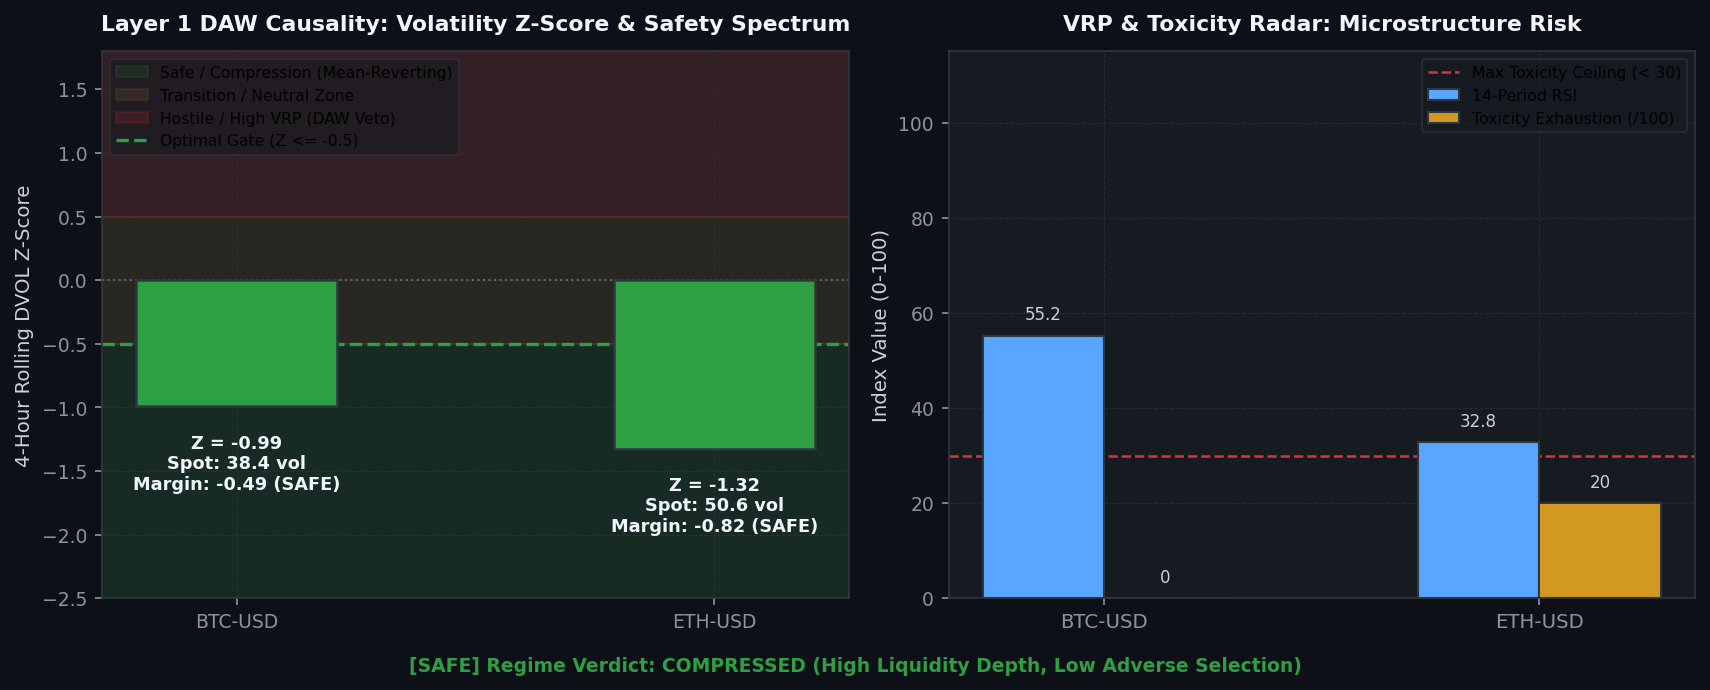
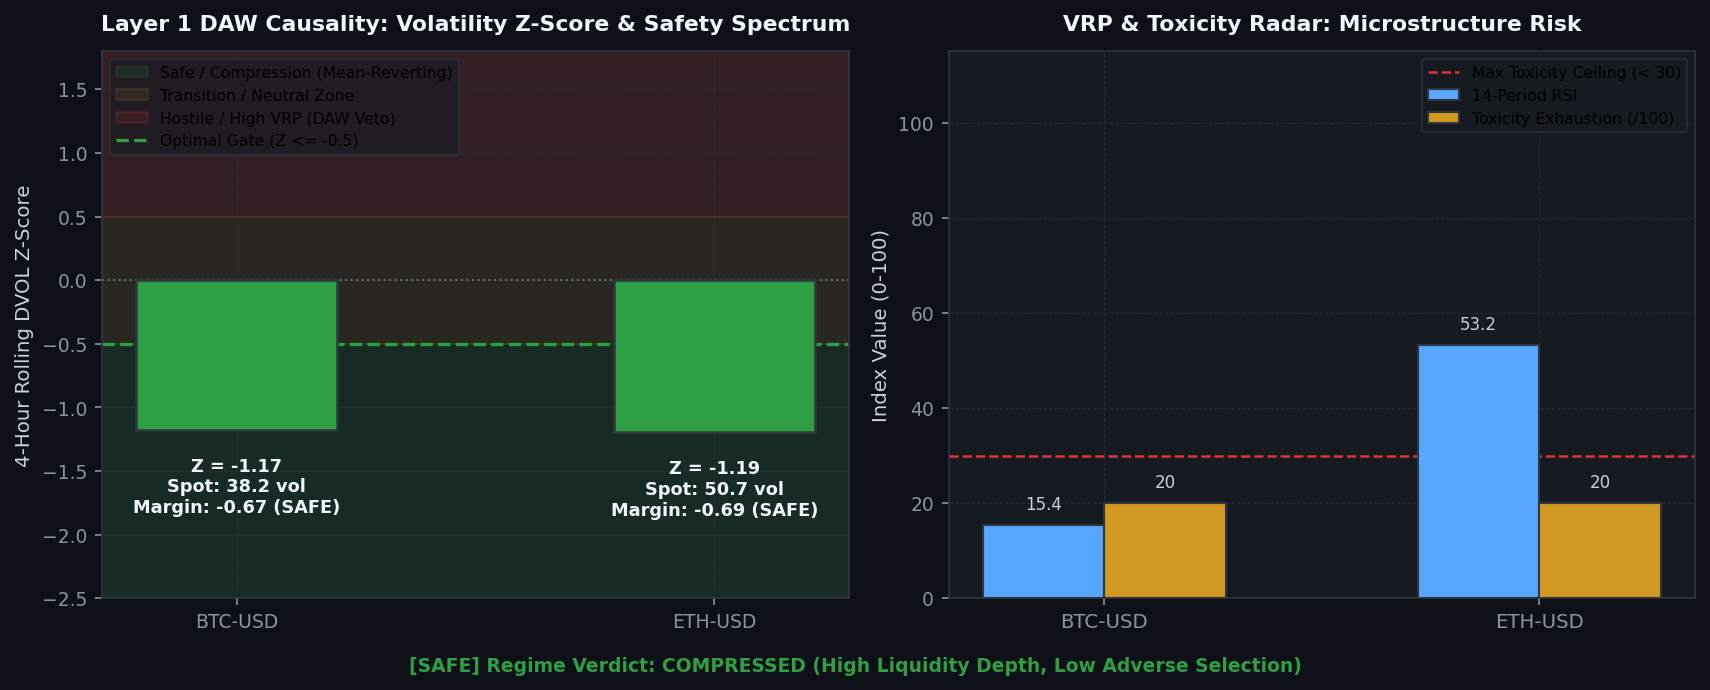
[coinbase] Hourly Status & Visual Intelligence Update: 2026-08-28 19:23:10

diff --git a/coinbase/data/hourly_status_report.md b/coinbase/data/hourly_status_report.md
@@ -3,7 +3,7 @@ layout: default
 ---
 
 # 🛡 Unified Trading System Hourly Status & Visual Intelligence
-> **Report Generated**: `2026-08-28 07:03:56 PM PDT (2026-08-29 02:03:56 UTC)`  
+> **Report Generated**: `2026-08-28 07:22:52 PM PDT (2026-08-29 02:22:52 UTC)`  
 > **System Health**: **🟡 DEGRADED / RESTRICTED** | **Win Rate**: `0.0%` | **Completed Trades**: `0`
 
 
@@ -15,13 +15,13 @@ Real-time Deribit implied volatility (DVOL) proxy tracking against mathematicall
 
 | Symbol | Proxy Oracle | Live Z-Score | Optimal Limit (YSP) | Safety Margin | Live VRP | Optimal VRP (YSP) | DAW Safety Verdict |
 | :--- | :--- | :--- | :--- | :--- | :--- | :--- | :--- |
-| `AVAX-USD` | DVOL_BTC | **-0.99** | **-0.50** | **-0.49** | **+1.28** | 5.0 | 🟢 SAFE |
-| `ETH-USD` | DVOL_ETH | **-1.32** | **-0.50** | **-0.82** | **+12.80** | 5.0 | 🔴 DAW VETOED |
-| `ADA-USD` | DVOL_BTC | **-0.99** | **-0.50** | **-0.49** | **+0.24** | 5.0 | 🟢 SAFE |
-| `DOGE-USD` | DVOL_BTC | **-0.99** | **-0.50** | **-0.49** | **+1.22** | 5.0 | 🟢 SAFE |
-| `BTC-USD` | DVOL_BTC | **-0.99** | **-0.50** | **-0.49** | **+1.12** | 5.0 | 🟢 SAFE |
-| `LINK-USD` | DVOL_BTC | **-0.99** | **-0.50** | **-0.49** | **+0.27** | 5.0 | 🟢 SAFE |
-| `SOL-USD` | DVOL_BTC | **-0.99** | **-0.50** | **-0.49** | **+0.22** | 5.0 | 🟢 SAFE |
+| `AVAX-USD` | DVOL_BTC | **-1.17** | **-0.50** | **-0.67** | **+1.28** | 5.0 | 🟢 SAFE |
+| `ETH-USD` | DVOL_ETH | **-1.19** | **-0.50** | **-0.69** | **+12.80** | 5.0 | 🔴 DAW VETOED |
+| `ADA-USD` | DVOL_BTC | **-1.17** | **-0.50** | **-0.67** | **+0.24** | 5.0 | 🟢 SAFE |
+| `DOGE-USD` | DVOL_BTC | **-1.17** | **-0.50** | **-0.67** | **+1.22** | 5.0 | 🟢 SAFE |
+| `BTC-USD` | DVOL_BTC | **-1.17** | **-0.50** | **-0.67** | **+1.12** | 5.0 | 🟢 SAFE |
+| `LINK-USD` | DVOL_BTC | **-1.17** | **-0.50** | **-0.67** | **+0.27** | 5.0 | 🟢 SAFE |
+| `SOL-USD` | DVOL_BTC | **-1.17** | **-0.50** | **-0.67** | **+0.22** | 5.0 | 🟢 SAFE |
 
 
 
@@ -37,16 +37,16 @@ We hereby certify that the mission-critical algorithmic data assets uploaded by 
 
 | Status | Data Asset | Freshness / State | Details / Timestamp |
 | :---: | :--- | :--- | :--- |
-| ✅ | **Go-List JSON** | Fresh (0.71h old) | 08-28 18:21 |
-| ✅ | **TimesFM Forecasts** | Fresh (3.03h old) | 08-28 16:02 |
-| ❌ | **Holding Times config** | STALE! (178.0h old) | Limit 120.1h |
-| ✅ | **BTC DVOL Cache** | Fresh (0.01h old) | 08-28 19:03 |
-| ✅ | **ETH DVOL Cache** | Fresh (0.00h old) | 08-28 19:03 |
-| ❌ | **Live Trading Telemetry** | STALE! (5.2h old) | Limit 0.1h |
+| ✅ | **Go-List JSON** | Fresh (1.03h old) | 08-28 18:21 |
+| ✅ | **TimesFM Forecasts** | Fresh (3.35h old) | 08-28 16:02 |
+| ❌ | **Holding Times config** | STALE! (178.3h old) | Limit 120.4h |
+| ✅ | **BTC DVOL Cache** | Fresh (0.00h old) | 08-28 19:22 |
+| ✅ | **ETH DVOL Cache** | Fresh (0.00h old) | 08-28 19:22 |
+| ❌ | **Live Trading Telemetry** | STALE! (5.5h old) | Limit 0.1h |
 
 <br>
 
-> **Utilization Certification**: ✅ **CERTIFIED.** The Guardian Watchdog is ONLINE and EC2 traders are actively querying the freshest MLOps data artifacts (Found 632 recent read events).
+> **Utilization Certification**: ✅ **CERTIFIED.** The Guardian Watchdog is ONLINE and EC2 traders are actively querying the freshest MLOps data artifacts (Found 619 recent read events).
 
 
 ---
@@ -100,14 +100,14 @@ Live balance sheet and open maker liquidity positions from Coinbase CDP.
 ## 4. 🤖 Foundation Model MLOps & Pipeline Orchestration
 Weekly Algorithmic Mega Cap selection, Zero-shot multi-step forward return forecasts, and VSTEF parameter grid search status.
 
-- **TimesFM Forecast DB**: 🟢 Updated 3.0h ago (2026-08-28 04:02 PM PDT)
+- **TimesFM Forecast DB**: 🟢 Updated 3.3h ago (2026-08-28 04:02 PM PDT)
 - **Last Weekly VSTEF Optimization**: `2026-08-05 09:22:38 AM PDT`
-- **Next Scheduled VSTEF Run**: `2026-08-30 07:00:00 PM PDT (Monday 02:00 UTC)` (Countdown: **47.9h (1d 23h 55m)**)
+- **Next Scheduled VSTEF Run**: `2026-08-30 07:00:00 PM PDT (Monday 02:00 UTC)` (Countdown: **47.6h (1d 23h 37m)**)
 - **Promoted Parameter Gates**: $Z_{DVOL} \le -0.5$ | Holding Horizon $= 12\text{h}$
 
 ### Algorithmic Mega Cap Selection
 - **Last Run (Confirmation)**: `2026-08-28 06:21:24 PM PDT`
-- **Next Scheduled Run**: `2026-08-30 06:00:00 PM PDT (Monday 01:00 UTC)` (Countdown: **46.9h (1d 22h 55m)**)
+- **Next Scheduled Run**: `2026-08-30 06:00:00 PM PDT (Monday 01:00 UTC)` (Countdown: **46.6h (1d 22h 36m)**)
 - **Selected Mega Cap Universe**: `BTC, BCH, AVAX, ETH, ALGO, ADA, LTC, DOGE, AAVE, LINK, DOT, HBAR`
 
 
@@ -121,20 +121,20 @@ Visualizing the impact of the VSTEF (Volatility-Synchronized Stop-Tightening Exe
 ## 5. 🖥 Multi-Node Infrastructure & Watchdog Matrix
 ```text
 ================================================================================
-   🛡  SFGK FUNNEL GUARDIAN WATCHDOG (HFT ONLY) |  02:03:53 AM
-   CPU:   4.3%  |  MEM:   5.4% (14.6GB / 15.4GB Free)
+   🛡  SFGK FUNNEL GUARDIAN WATCHDOG (HFT ONLY) |  02:22:50 AM
+   CPU:   7.3%  |  MEM:   5.5% (14.6GB / 15.4GB Free)
 ================================================================================
 SERVICE              | PID      | STATUS          | RESTARTS | INFO
 --------------------------------------------------------------------------------
 L3 Consumer          | 3414797  | RUNNING         | -        | Continuous Websocket Feed
 MAO Daemon           | 3414920  | RUNNING         | -        | Oracle Yield Analysis
 U/U Farmer           | 3414923  | RUNNING         | -        | Volume Farmer
-Trader AVAX-USD      | 3422181  | COOL-DOWN       | 15       | Next run in 8.7s
-Trader ETH-USD       | 3422182  | COOL-DOWN       | 15       | Next run in 8.7s
-Trader ADA-USD       | 3422183  | COOL-DOWN       | 15       | Next run in 8.7s
-Trader DOGE-USD      | 3422184  | COOL-DOWN       | 15       | Next run in 8.7s
-Trader BTC-USD       | 3422185  | COOL-DOWN       | 15       | Next run in 8.7s
-Trader LINK-USD      | 3422186  | COOL-DOWN       | 15       | Next run in 8.7s
+Trader AVAX-USD      | 3436860  | COOL-DOWN       | 46       | Next run in 14.0s
+Trader ETH-USD       | 3436861  | COOL-DOWN       | 46       | Next run in 14.0s
+Trader ADA-USD       | 3436862  | COOL-DOWN       | 46       | Next run in 14.0s
+Trader DOGE-USD      | 3436863  | COOL-DOWN       | 46       | Next run in 14.0s
+Trader BTC-USD       | 3436864  | COOL-DOWN       | 46       | Next run in 14.0s
+Trader LINK-USD      | 3436865  | COOL-DOWN       | 46       | Next run in 14.0s
 ```
 
 ---

diff --git a/coinbase/data/visual_intelligence.md b/coinbase/data/visual_intelligence.md
@@ -4,7 +4,7 @@ title: Visual Intelligence Gallery
 ---
 
 # 📈 Visual Intelligence Gallery
-> **Generated:** `2026-08-28 19:04:14`
+> **Generated:** `2026-08-28 19:23:10`
 > **[Return to Main Status Report](./hourly_status_report.md)**
 
 This page visualizes the internal states, market profiles, and decision criteria of the active **3-Tier Fused Decision Engine** across all layers.
